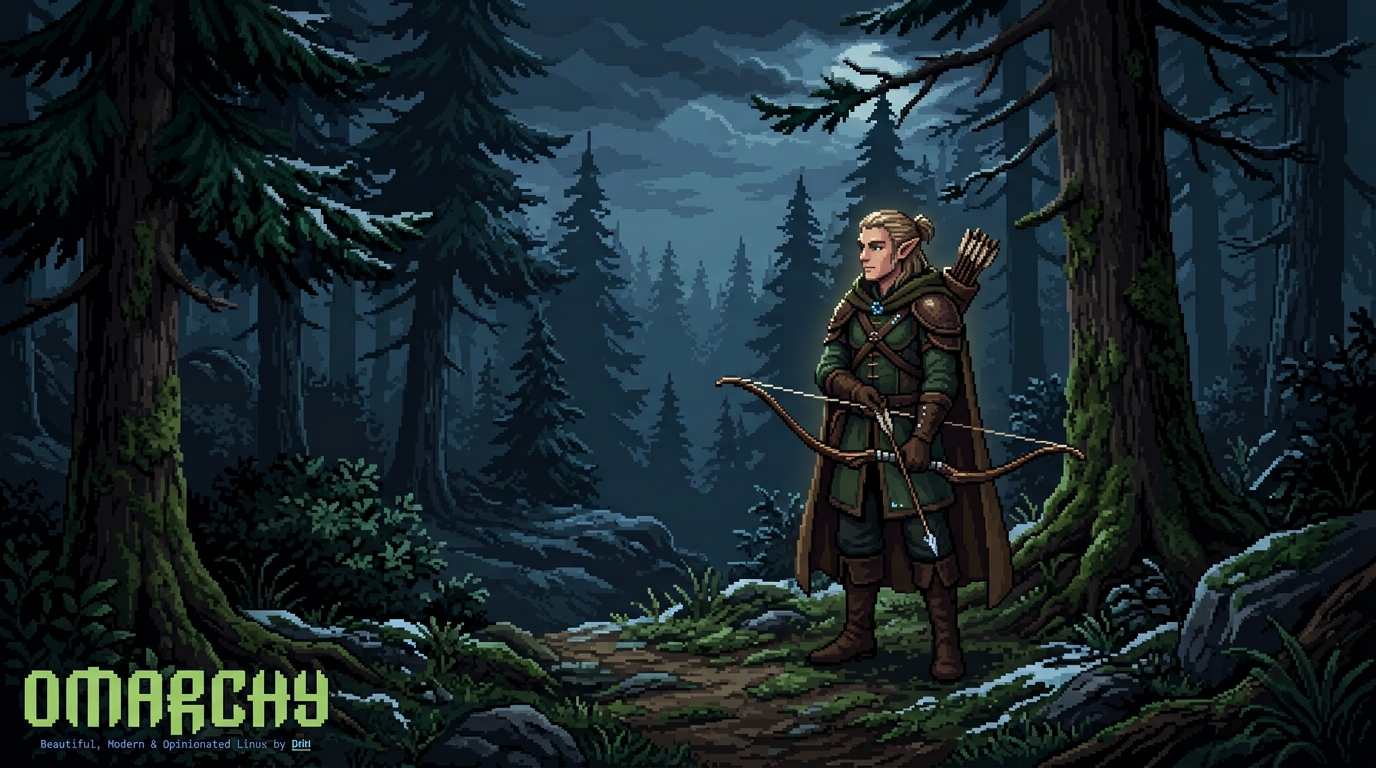
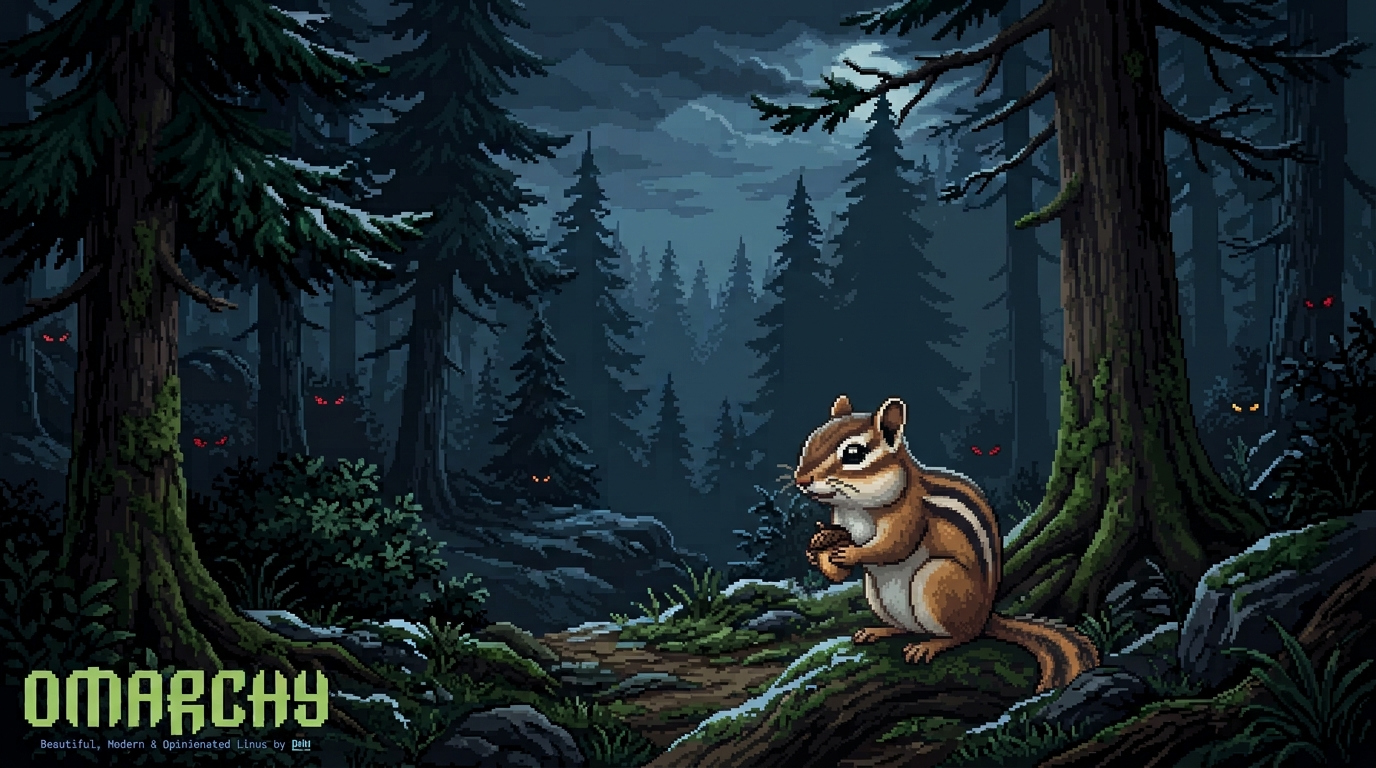
Atualização do README.md, informações complementares

diff --git a/README.md b/README.md
@@ -1,13 +1,37 @@
 # 🌲 Pixelart Fantasy - Omarchy Theme
+ ![Linux](https://img.shields.io/badge/Linux-000?style=for-the-badge&logo=linux&logoColor=FCC624) 
 
 Um tema para o **Omarchy Linux** com atmosfera de RPG em Pixel Art e a fluidez do **Hyprland**, usando tons de verde oliva, dourado e cinza.
+![Preview do Tema](./preview.jpg)
 
 ## 📸 Conceito e Wallpapers
 
 * **A Jornada dos Heróis:** Cavaleiro e Rainha na floresta.
+![Cavaleiro e Rainha na Floresta](./backgrounds/yanderequeenandknight_pixel_wallpaper.jpg)
+
+---
+
 * **Os Guardiões da Mata:** Dupla de elfos.
+![Cassal de Elfos guardiões da Floresta](./backgrounds/marriedelves_pixel_wallpaper.jpg)
+
+---
+
 * **O Chipmunk Solitário:** Variações com o chipmunk explorando a natureza.
+![Chipmunk curioso na Floresta Perigosa](./backgrounds/chipmunk_pixel_wallpaper.jpg)
+
+---
+
 * **As Margens do Loch (O Each-Uisge):** Ambiente à beira de um lago escocês com alusão ao espírito mitológico Each-Uisge.
+
+![Each-Uisge](./backgrounds/Each-Uisge_Loch_pixel_wallpaper.jpg)
+
+![Rainha Possessiva e seu Cavaleiro contra Each-Uisge](./backgrounds/yanderequeenandknight_each-uisge_pixel_wallpaper.jpg)
+
+![Casal de Elfos Guerreiros enfrentando o terrível Each-Uisge](./backgrounds/marriedelves_each-uisge_pixel_wallpaper.jpg)
+
+
+---
+
 
 ## 🛠 O que está incluído
 
@@ -20,3 +44,14 @@ Um tema para o **Omarchy Linux** com atmosfera de RPG em Pixel Art e a fluidez d
 ```bash
 omarchy theme install https://github.com
 ```
+
+# Este é meu primeiro tema, espero que gostem.
+* Estou sempre postando novos wallpapers. 
+* Não deixe de conferir meus próximos temas.
+* E por favor, curta e me siga para me apoiar.
+---
+
+
+## 📱 Redes Sociais
+
+[![LinkedIn](https://img.shields.io/badge/LinkedIn-0077B5?style=for-the-badge&logo=linkedin&logoColor=white)](https://www.linkedin.com/in/fernando-rodrigues-de-sousa-silva-4b63543b4/) [![Instagram](https://img.shields.io/badge/-Instagram-%23E4405F?style=for-the-badge&logo=instagram&logoColor=white)](https://www.instagram.com/daron_fen?utm_source=qr&stkn=MW1ieHV4NTRycXY4bQ==)  [![Gmail](https://img.shields.io/badge/Gmail-333333?style=for-the-badge&logo=gmail&logoColor=red)](mailto:daronfen@gmail.com) 
